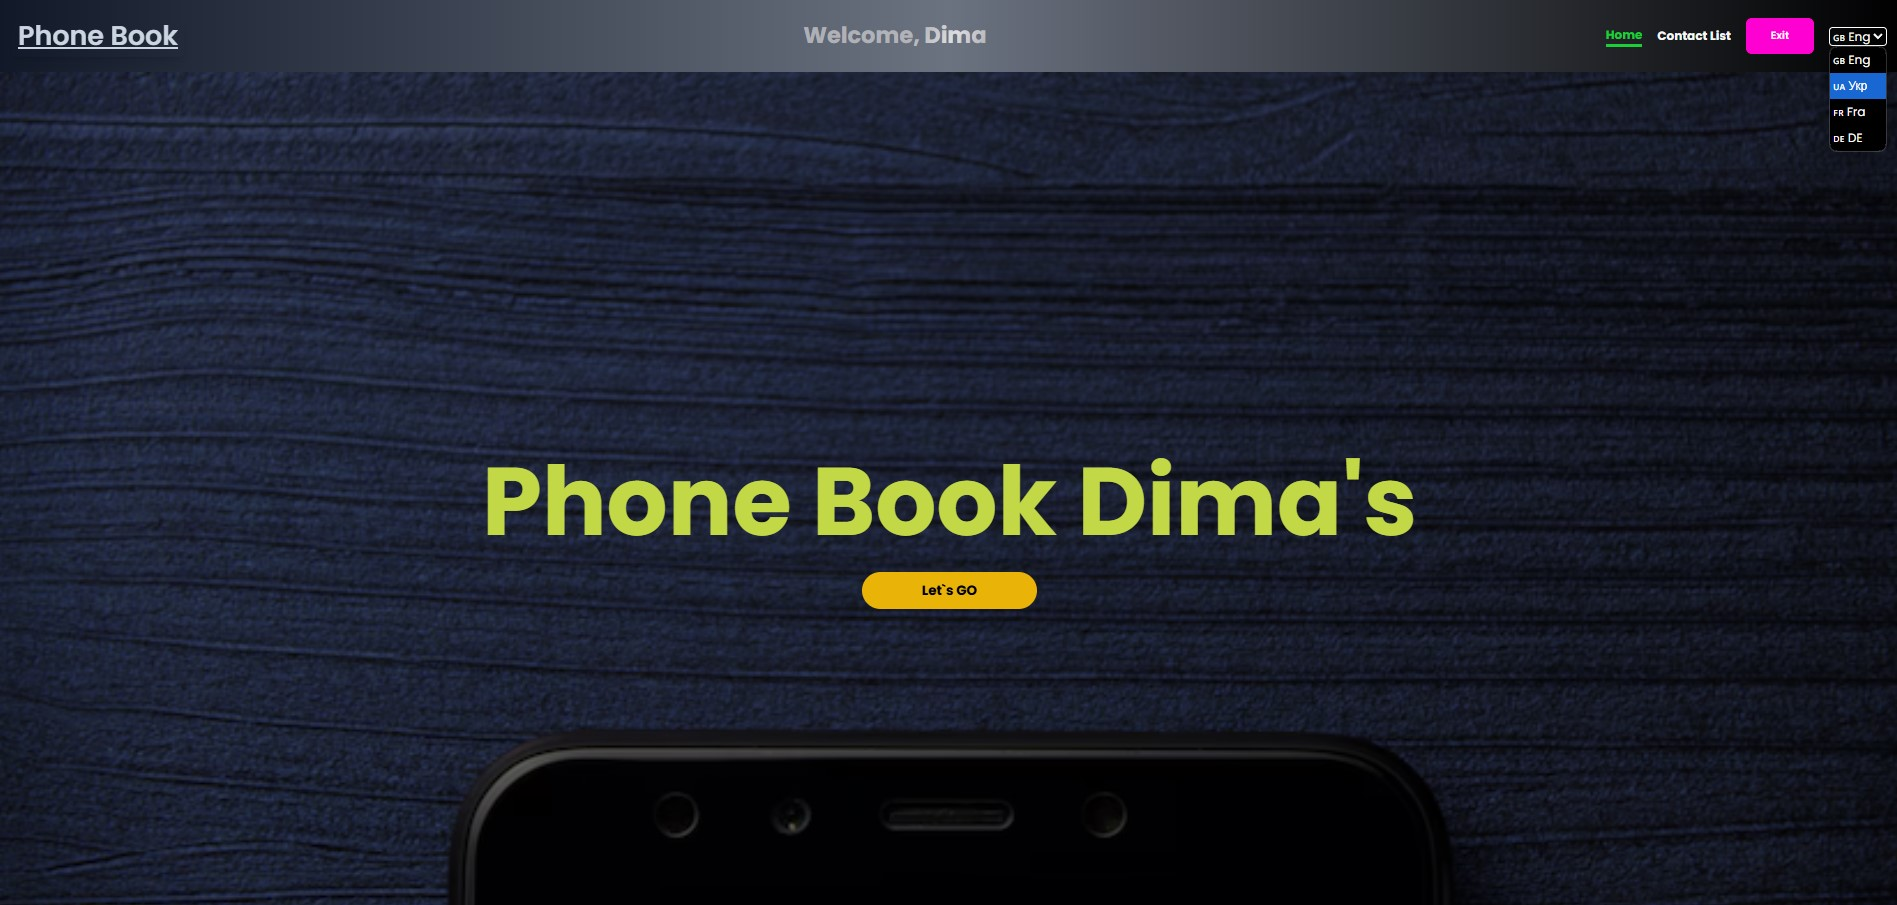
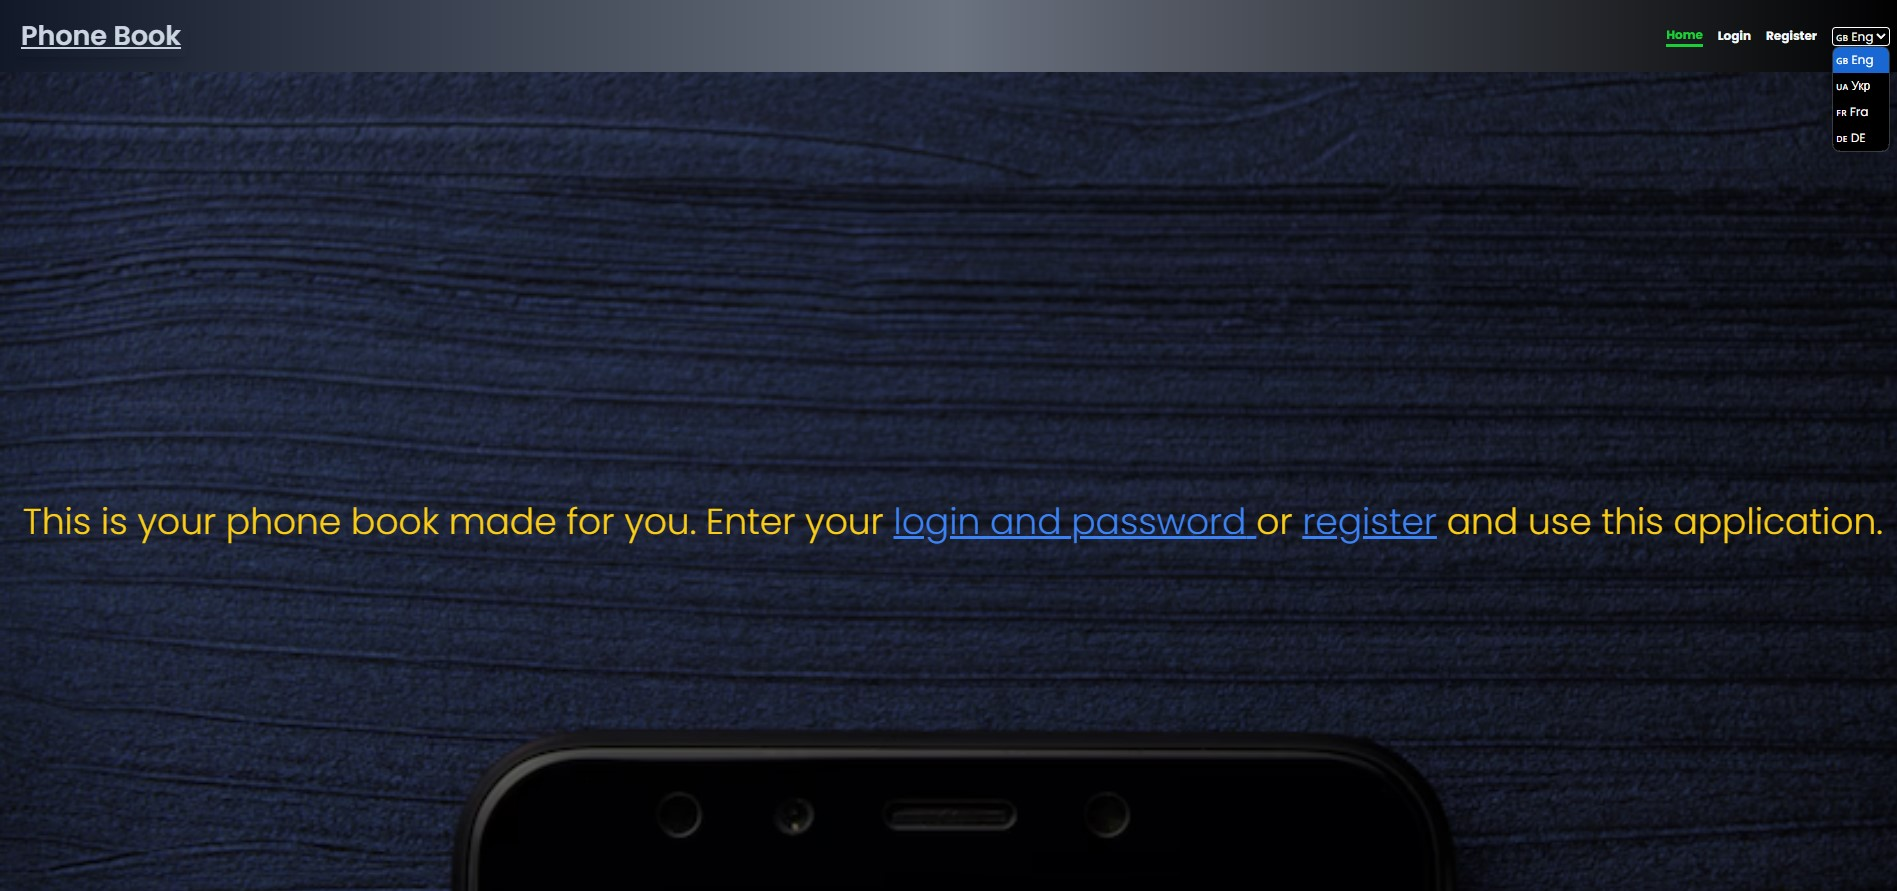
add phone book project

diff --git a/src/Components/Projects/PhoneBook/PhoneBook.jsx b/src/Components/Projects/PhoneBook/PhoneBook.jsx
@@ -1,10 +1,10 @@
 import s from "../IndividualStyles.module.scss";
 import { FaHandPointRight } from "react-icons/fa";
-import head from "../../../images/AquaTrack/head.jpg";
-import mainPage from "../../../images/AquaTrack/mainPage.jpg";
-import settings from "../../../images/AquaTrack/settings.jpg";
+import head from "../../../images/PhoneBook/multiLang.jpg";
+import mainPage from "../../../images/PhoneBook/mainForms.jpg";
+import settings from "../../../images/PhoneBook/contacts.jpg";
 
-export const AquaTrack = () => {
+export const PhoneBook = () => {
   return (
     <div
       className={s.block_project}
@@ -25,12 +25,12 @@ export const AquaTrack = () => {
         </ul>
         <div>
           <p className={s.parag}>
-            Team project. The Aqua Track application is a hydration tracking
-            tool designed to help users monitor and improve their daily water
-            intake. As the Front-End Team Lead for the Aqua Track project, I led
-            the development of the user interface using React, managed the
-            application's state with Redux, and provided support to the
-            development team. Server part is developed with Mongo DB.
+            A full stack application for managing personal contacts. Users can
+            register, add, edit, delete, and view contacts with sorting and
+            filtering options for easier navigation. The app also supports
+            multilingual functionality for a better user experience. All data is
+            securely stored in MongoDB. The frontend is built with React, and
+            the backend uses Node.js and Express to handle RESTful API requests.
           </p>
         </div>
       </div>
@@ -42,7 +42,7 @@ export const AquaTrack = () => {
           href="https://aqua-track-group-01.vercel.app/"
           target="_blank"
         >
-          AquaTrack
+          PhoneBook
         </a>
       </div>
     </div>

diff --git a/src/Components/Projects/Projects.jsx b/src/Components/Projects/Projects.jsx
@@ -11,6 +11,7 @@ import { Movies } from "./Movies/Movies";
 import { Portfolio } from "./Portfolio/Portfolio";
 import { SparkArt } from "./SparkArt/SparkArt";
 import { Trucks } from "./Trucks/Trucks";
+import { PhoneBook } from "./PhoneBook/PhoneBook";
 
 export const Projects = () => {
   const [activeProject, setActiveProject] = useState(null);
@@ -48,6 +49,9 @@ export const Projects = () => {
         <SwiperSlide onClick={() => handleOpenModal("Finance")}>
           <Finance />
         </SwiperSlide>
+        <SwiperSlide onClick={() => handleOpenModal("PhoneBook")}>
+          <PhoneBook />
+        </SwiperSlide>
         <SwiperSlide onClick={() => handleOpenModal("Movies")}>
           <Movies />
         </SwiperSlide>
@@ -70,6 +74,7 @@ export const Projects = () => {
             </button>
             {activeProject === "AquaTrack" && <AquaTrack fullscreen />}
             {activeProject === "Finance" && <Finance fullscreen />}
+            {activeProject === "PhoneBook" && <PhoneBook fullscreen />}
             {activeProject === "Movies" && <Movies fullscreen />}
             {activeProject === "Portfolio" && <Portfolio fullscreen />}
             {activeProject === "SparkArt" && <SparkArt fullscreen />}
